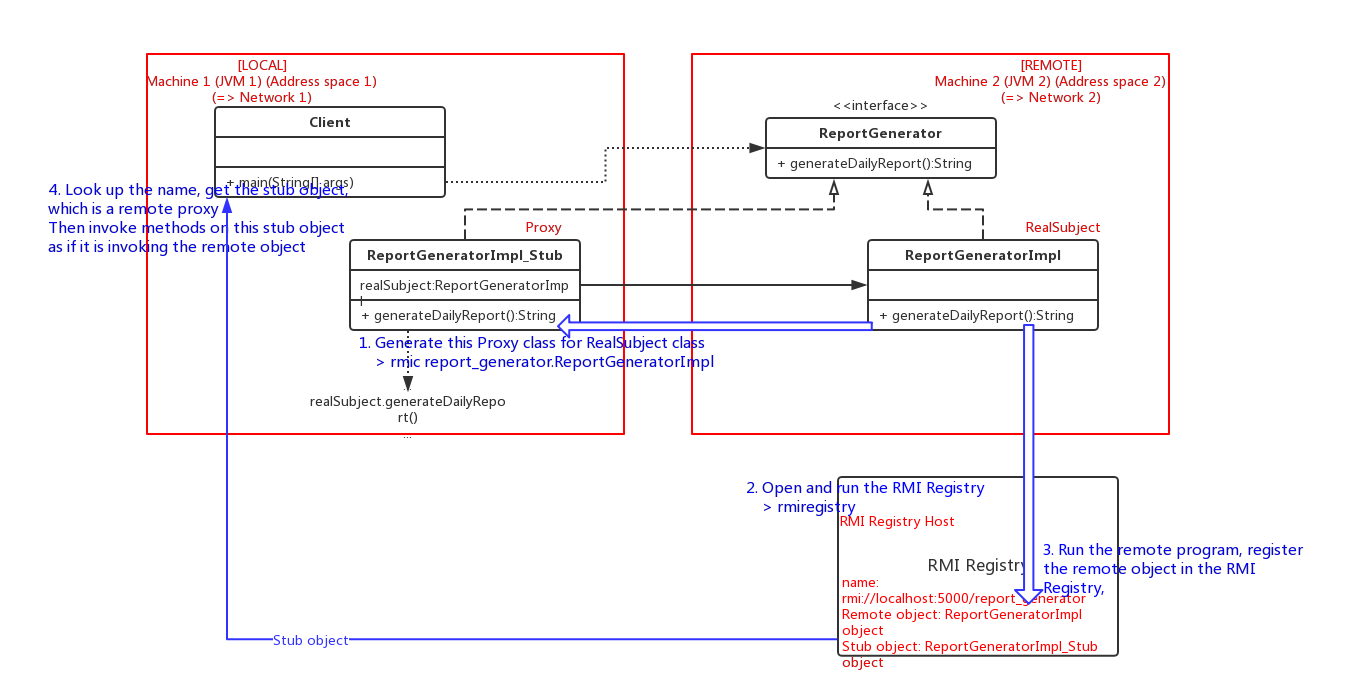
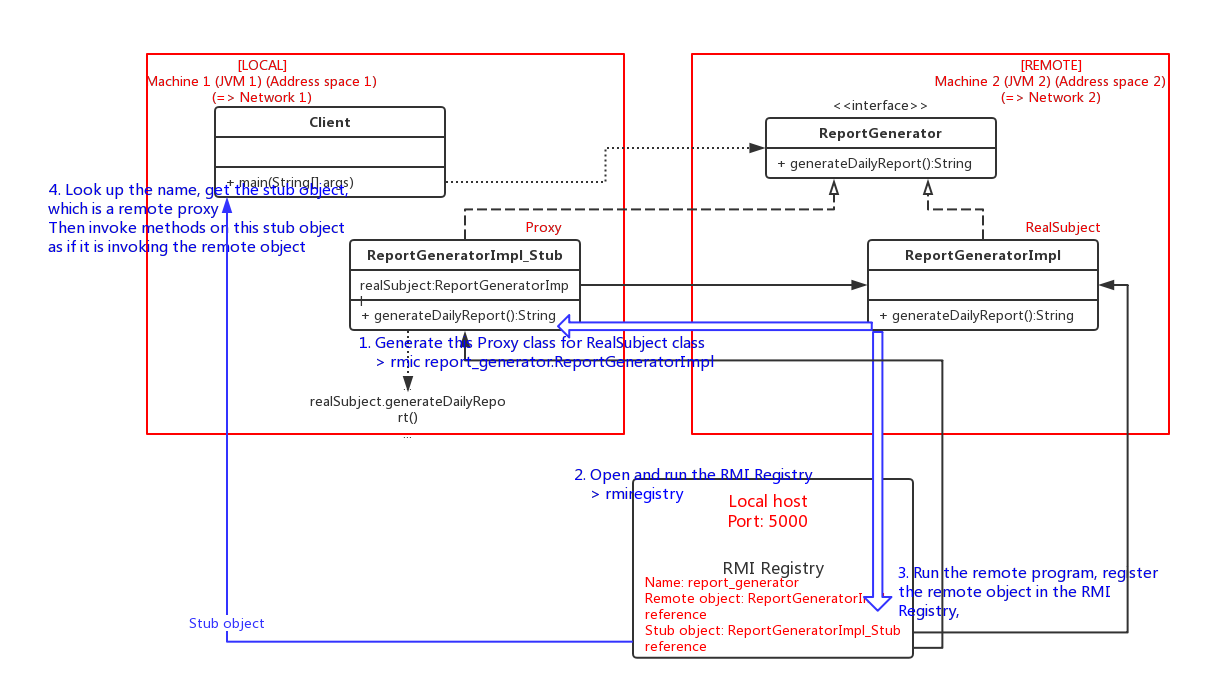
Finished remote proxy with Java RMI

Changed region(s): [[0.0309, 0.0612, 0.9577, 0.9796], [0.5561, 0.0612, 0.587, 0.0918]]

diff --git a/3-Structural Patterns/6-Proxy Pattern/Usage 1-Remote Proxy/Java/remote_company/ReportGeneratorImpl.java b/3-Structural Patterns/6-Proxy Pattern/Usage 1-Remote Proxy/Java/remote_company/ReportGeneratorImpl.java
@@ -1,0 +1,58 @@
+package remote_company;
+
+import java.rmi.Naming;
+import java.rmi.Remote;
+import java.rmi.RemoteException;
+import java.rmi.server.UnicastRemoteObject;
+import java.util.Calendar;
+
+/**
+ * Concrete ReportGeneratorImpl class that works as "RealSubject".
+ * This class resides in a remote machine (a remote JVM, and thus a remote
+ * network). Thus, an instance of this class is referred to as a "remote
+ * object", which is the object that the client want to call methods on.
+ *
+ * This class needs some functionality related to being remote, so we let this
+ * class extend UnicastRemoteObject and let that class do the work for us.
+ *
+ * @author Ziang Lu
+ */
+public class ReportGeneratorImpl extends UnicastRemoteObject implements ReportGenerator {
+
+    /**
+     * Default constructor.
+     * @throws RemoteException if failed to export the newly created object
+     */
+    protected ReportGeneratorImpl() throws RemoteException {
+        super();
+    }
+
+    @Override
+    public String generateDailyReport() {
+        System.out.print("[REMOTE] Generating a daily report...");
+        StringBuilder s = new StringBuilder();
+        s.append("***** Daily Report *****").append('\n');
+        s.append(Calendar.getInstance().getTime().toString());
+        System.out.println("done");
+        return s.toString();
+    }
+
+    /**
+     * Remote driver program.
+     * @param args argument from command line
+     */
+    public static void main(String[] args) {
+        try {
+            // Register the remote object in the RMI Registry
+//            Remote stub = UnicastRemoteObject.exportObject(new ReportGeneratorImpl(), 5000);
+            Naming.bind("rmi://localhost:5000/report_generator", new ReportGeneratorImpl());
+            // At the same time, a stub object corresponding to this remote object is created in the RMI Registry
+
+            System.out.println("[REMOTE] Registered a remote ReportGeneratorImpl object, and a corresponding stub " +
+                    "object is created");
+        } catch (Exception e) {
+            e.printStackTrace();
+        }
+    }
+
+}

diff --git a/3-Structural Patterns/6-Proxy Pattern/Usage 1-Remote Proxy/Java/local_company_owner/CompanyOwner.java b/3-Structural Patterns/6-Proxy Pattern/Usage 1-Remote Proxy/Java/local_company_owner/CompanyOwner.java
@@ -1,0 +1,33 @@
+package local_company_owner;
+
+import remote_company.ReportGenerator;
+
+import java.rmi.Naming;
+
+/**
+ * Application that works as "Client".
+ * This class resides in a local machine (a local JVM, and thus a local
+ * network).
+ *
+ * @author Ziang Lu
+ */
+public class CompanyOwner {
+
+    /**
+     * Local driver program.
+     * @param args arguments from command line
+     */
+    public static void main(String[] args) {
+        try {
+            // Look up the name, and get the stub object, which is a remote proxy
+            ReportGenerator reportGenerator = (ReportGenerator) Naming.lookup("rmi://localhost:5000/report_generator");
+            System.out.println("\n[LOCAL] Fetched a stub object for ReportGeneratorImpl\n");
+            // Invoke methods on this stub object, as if it is invoking the remote object
+            System.out.println(reportGenerator.generateDailyReport());
+        } catch (Exception e) {
+            e.printStackTrace();
+        }
+
+    }
+
+}

diff --git a/3-Structural Patterns/6-Proxy Pattern/Usage 1-Remote Proxy/Java/remote_company/ReportGenerator.java b/3-Structural Patterns/6-Proxy Pattern/Usage 1-Remote Proxy/Java/remote_company/ReportGenerator.java
@@ -1,0 +1,27 @@
+package remote_company;
+
+import java.rmi.Remote;
+import java.rmi.RemoteException;
+
+/**
+ * Abstract ReportGenerator interface that works as "Subject", or in this case,
+ * a "remote interface".
+ * The Remote interface serves to identify interfaces whose methods may be
+ * invoked from a non-local virtual machine. Only those methods specified in a
+ * "remote interface", an interface that extends Remote, like this one, are
+ * available remotely.
+ *
+ * @author Ziang Lu
+ */
+public interface ReportGenerator extends Remote {
+
+    /**
+     * Generates and returns a daily report.
+     * Since the returned object will be transmitted back to the client over
+     * networking, the type of this returned object must be serializable.
+     * @return generated daily report of type String
+     * @throws RemoteException any exception during a RMI
+     */
+    String generateDailyReport() throws RemoteException;
+
+}
